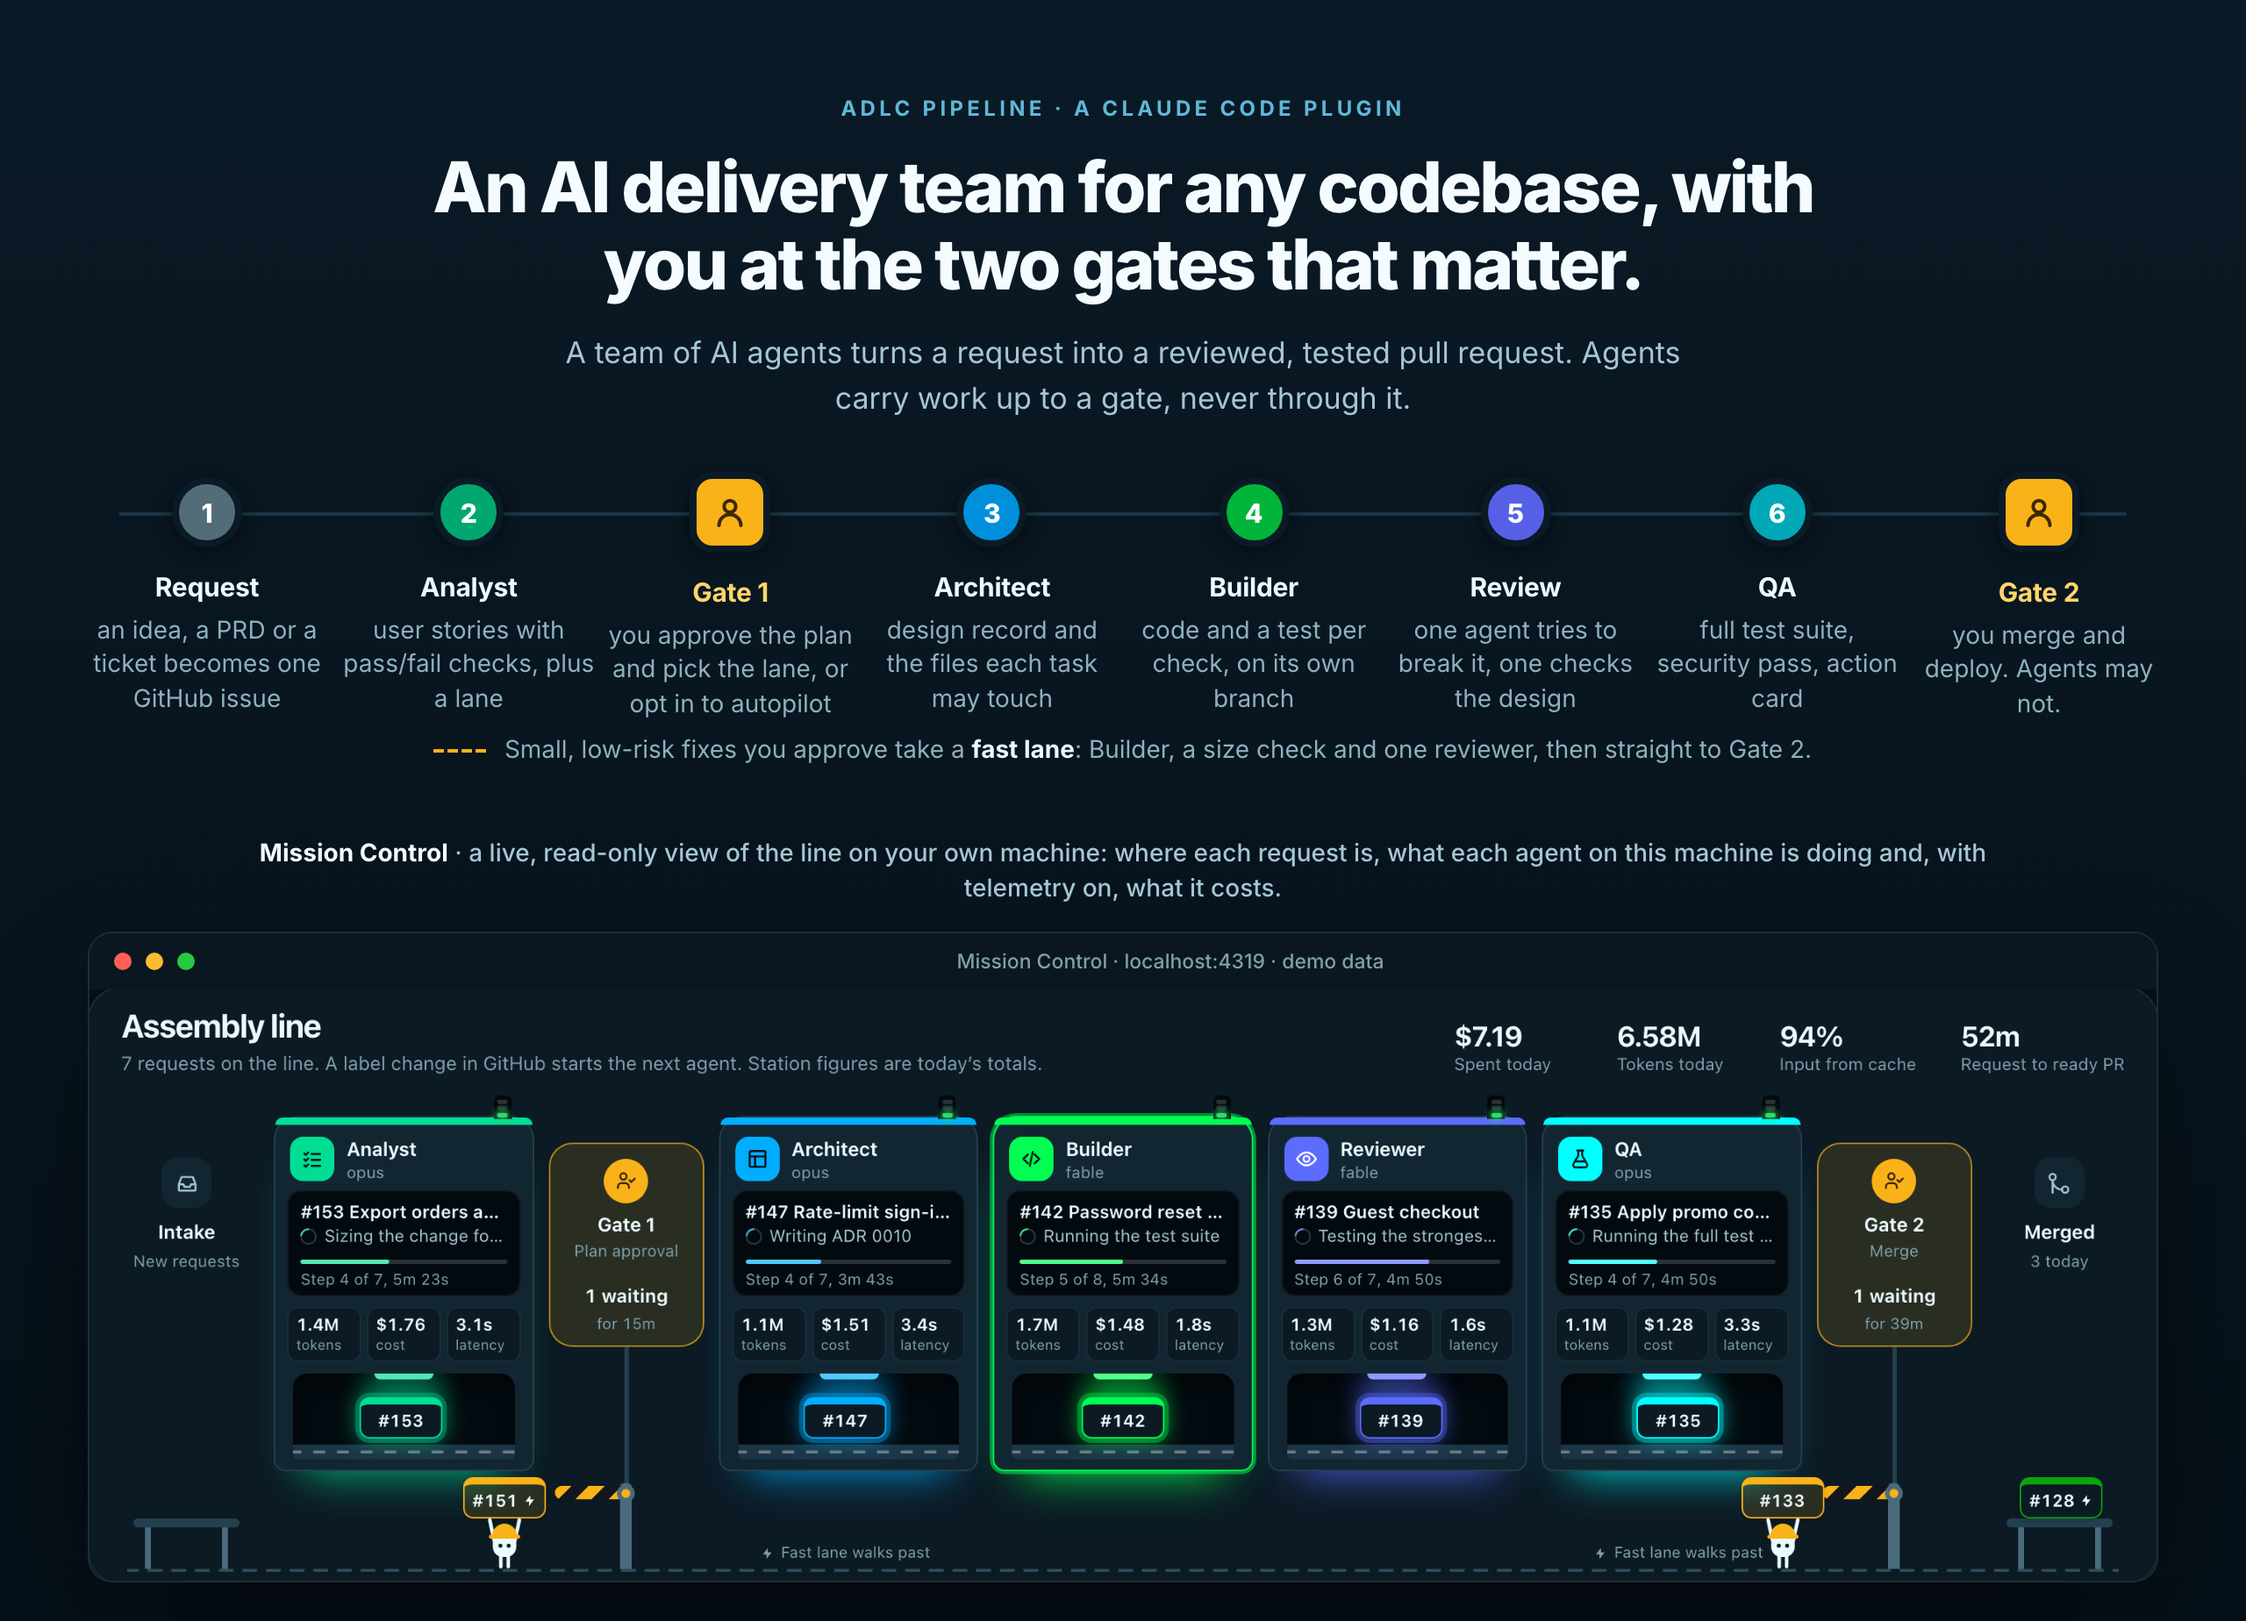
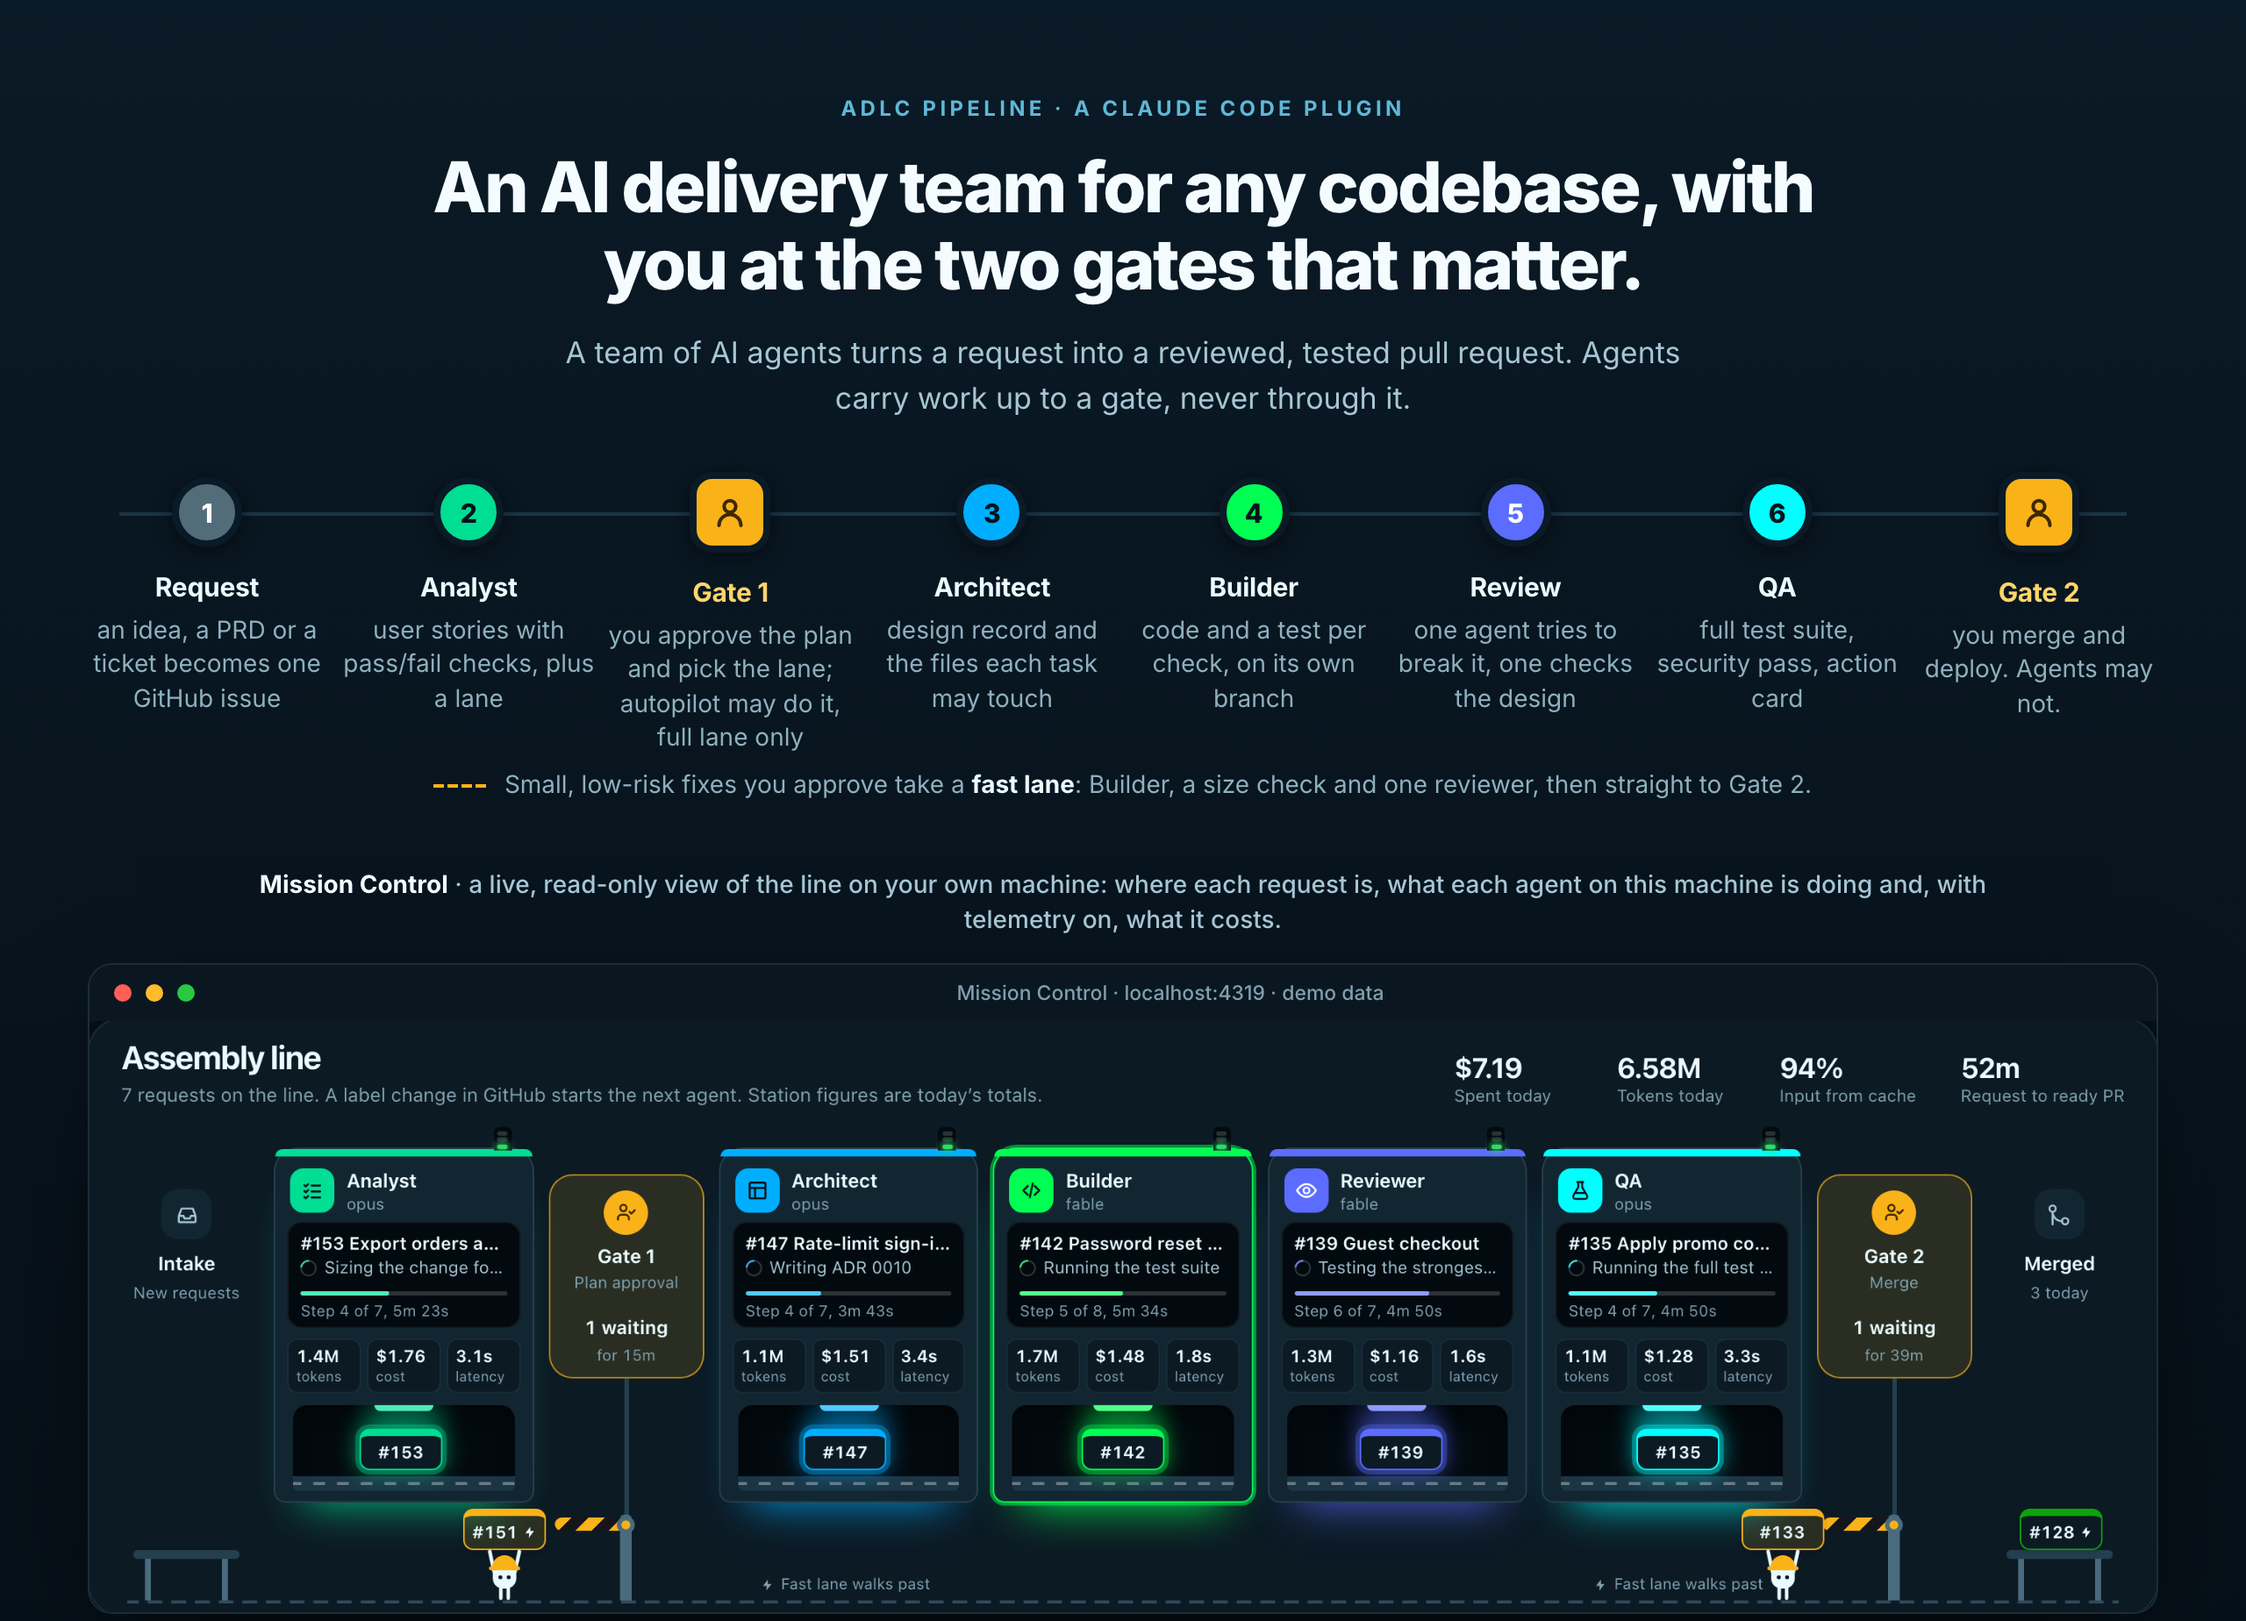
README hero: second review fixes (font guard, capture palette, Gate 1 wording)
The offline guard asked document.fonts.check(), which is true for a family with no
face at all, so an offline render still wrote a system-font image; it now asks
fonts.load() for the faces and stops when none arrive. The step circles use the
Cool revival dark set with the app's own digit colours, the palette the capture
actually shows. Gate 1 reads "autopilot may do it, full lane only", so the picture
no longer implies autopilot can pick the lane.

diff --git a/docs/readme-hero.py b/docs/readme-hero.py
@@ -8,7 +8,7 @@ Run:   python3 docs/readme-hero.py              # re-render the dark hero from t
        python3 docs/readme-hero.py --capture    # first refresh docs/readme-hero-mc.png from a running
                                                 #   demo server (adlc-mission-control --demo), then render
 Needs: pip install playwright pillow && python3 -m playwright install chromium (once). Rendering
-loads the Inter font from Google Fonts; offline it falls back to the system sans.
+loads the Inter font from Google Fonts; offline it stops rather than render in the system sans.
 
 Every sentence in the picture is a claim about the plugin. Check it against the code and the
 explainer (docs/adlc-pipeline-explained.md) before changing it; say "may not", not "never can".
@@ -23,9 +23,10 @@ DEMO_URL = "http://localhost:4319/?demo=1"
 CAPTURE_VIEWPORT = (1440, 900)                 # at 2x
 LINE_CROP = (43, 137, 2837, 936)               # the "Assembly line" panel inside that capture
 
-# station colours: Mission Control's default "Cool revival" palette, light set (mission-control/web/styles.css),
-# so the numbered circles match the stations in the capture below them
-COL = dict(request="#526C7A", analyst="#00A870", architect="#0090DB", builder="#00B53A", reviewer="#5560E6", qa="#00A8B8")
+# station colours and digit colours: Mission Control's default "Cool revival" palette, dark set, as the capture
+# shows it (mission-control/web/styles.css, .mc[data-pal="cool"][data-theme="dark"] and its --*-on digits)
+COL = dict(request="#526C7A", analyst="#00DE94", architect="#00AEFF", builder="#00FF52", reviewer="#5B6CFF", qa="#00FFFF")
+ON = dict(request="#FFFFFF", analyst="#04141C", architect="#04141C", builder="#04141C", reviewer="#FFFFFF", qa="#04141C")
 
 THEMES = {
     "light": dict(bg="linear-gradient(180deg,#FFFFFF 0%,#F1F7FA 100%)", eyebrow="#0090DB", h1="#06202B", p="#3F5866",
@@ -38,13 +39,13 @@ THEMES = {
                   cap="#A6C6D4", capb="#F4FCFF"),
 }
 
-STEPS = [("1", "Request",   "an idea, a PRD or a ticket becomes one GitHub issue",   COL["request"]),
-         ("2", "Analyst",   "user stories with pass/fail checks, plus a lane",        COL["analyst"]),
-         (None, "Gate 1",   "you approve the plan and pick the lane, or opt in to autopilot", None),
-         ("3", "Architect", "design record and the files each task may touch",        COL["architect"]),
-         ("4", "Builder",   "code and a test per check, on its own branch",           COL["builder"]),
-         ("5", "Review",    "one agent tries to break it, one checks the design",     COL["reviewer"]),
-         ("6", "QA",        "full test suite, security pass, action card",            COL["qa"]),
+STEPS = [("1", "Request",   "an idea, a PRD or a ticket becomes one GitHub issue",   "request"),
+         ("2", "Analyst",   "user stories with pass/fail checks, plus a lane",        "analyst"),
+         (None, "Gate 1",   "you approve the plan and pick the lane; autopilot may do it, full lane only", None),
+         ("3", "Architect", "design record and the files each task may touch",        "architect"),
+         ("4", "Builder",   "code and a test per check, on its own branch",           "builder"),
+         ("5", "Review",    "one agent tries to break it, one checks the design",     "reviewer"),
+         ("6", "QA",        "full test suite, security pass, action card",            "qa"),
          (None, "Gate 2",   "you merge and deploy. Agents may not.",                   None)]
 
 PERSON = '<svg width="20" height="20" viewBox="0 0 24 24" fill="none" stroke="#3D2800" stroke-width="2.4" stroke-linecap="round"><circle cx="12" cy="8" r="4"/><path d="M4.5 21a7.5 7.5 0 0 1 15 0"/></svg>'
@@ -52,8 +53,8 @@ PERSON = '<svg width="20" height="20" viewBox="0 0 24 24" fill="none" stroke="#3
 def html(t):
     steps = "".join(
         f'<div class="step gate"><div class="n">{PERSON}</div><b>{name}</b><span>{d}</span></div>' if n is None else
-        f'<div class="step"><div class="n" style="background:{col}">{n}</div><b>{name}</b><span>{d}</span></div>'
-        for n, name, d, col in STEPS)
+        f'<div class="step"><div class="n" style="background:{COL[k]};color:{ON[k]}">{n}</div><b>{name}</b><span>{d}</span></div>'
+        for n, name, d, k in STEPS)
     return f"""<!doctype html><html><head><meta charset="utf-8">
 <link rel="preconnect" href="https://fonts.googleapis.com"><link href="https://fonts.googleapis.com/css2?family=Inter:wght@400;500;600;700;800&display=swap" rel="stylesheet">
 <style>
@@ -72,10 +73,10 @@ h1{{margin:16px auto 0;font-size:40px;line-height:1.1;font-weight:800;letter-spa
 .step b{{display:block;margin-top:13px;font-size:15px;font-weight:700;color:{t['name']};letter-spacing:-.01em}}
 .step.gate b{{color:{t['gate']}}}
 .step span{{display:block;margin-top:5px;font-size:14px;line-height:1.38;color:{t['desc']};padding:0 2px}}
-.fast{{position:absolute;left:0;right:0;top:418px;text-align:center;font-size:14px;color:{t['desc']}}}
+.fast{{position:absolute;left:0;right:0;top:438px;text-align:center;font-size:14px;color:{t['desc']}}}
 .fast i{{display:inline-block;width:30px;border-top:2px dashed #FAB219;vertical-align:middle;margin-right:10px}}
 .fast b{{color:{t['name']};font-weight:700}}
-.mc{{position:absolute;left:0;right:0;top:476px;text-align:center}}
+.mc{{position:absolute;left:0;right:0;top:494px;text-align:center}}
 .mc .cap{{font-size:14px;color:{t['cap']};font-weight:500;max-width:1000px;margin:0 auto;line-height:1.4}}
 .mc .cap b{{color:{t['capb']};font-weight:700}}
 .frame{{width:1180px;margin:16px auto 0;border-radius:14px;overflow:hidden;background:#061018;border:1px solid {t['frame']};box-shadow:{t['frameshadow']}}}
@@ -114,7 +115,8 @@ async def main(do_capture, themes):
             pg = await b.new_page(viewport=dict(width=W, height=H), device_scale_factor=2)
             await pg.set_content(html(t), wait_until="load")
             await pg.evaluate("document.fonts.ready")
-            if not await pg.evaluate('document.fonts.check("800 40px Inter")'):
+            # fonts.check() is true for a family with no face at all, so ask for the faces themselves
+            if await pg.evaluate('document.fonts.load("800 40px Inter").then(faces => faces.length === 0)'):
                 sys.exit("Inter did not load (offline?); the layout would rewrap. Connect and run again.")
             out = os.path.join(HERE, f"readme-hero-{name}.png")
             await (await pg.query_selector("#hero")).screenshot(path=out)
